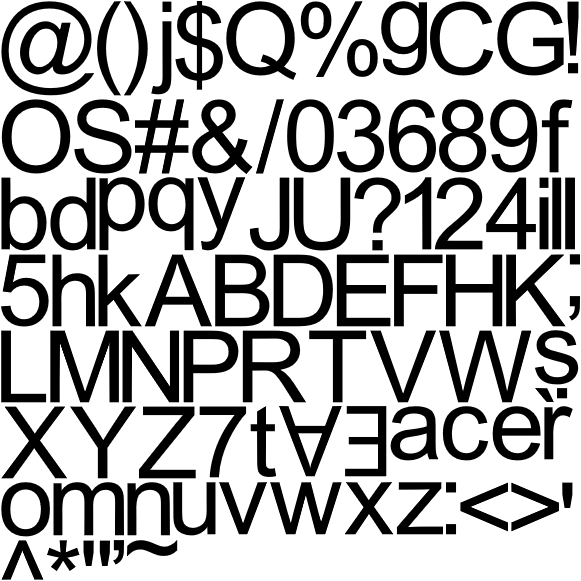
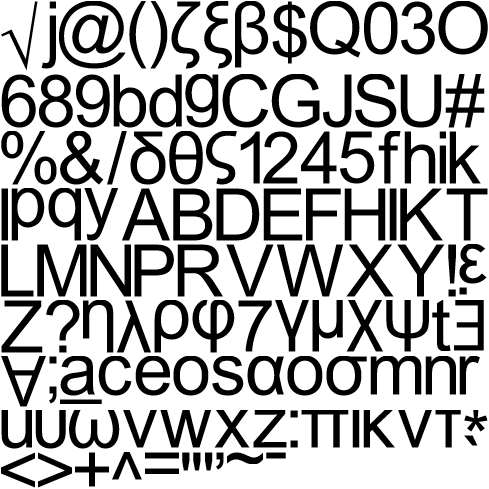
Added tab UI and buttons

diff --git a/PostulateVerifier/src/Model.cpp b/PostulateVerifier/src/Model.cpp
@@ -14,7 +14,7 @@ NEElement::NEElement(const std::vector<float>& identifiers, const Equation& def,
 {
 	if (checkValidity) {
 		if (identifiers.size() != identNum or !def.getSolution({identifiers}).sat) {
-			throw std::invalid_argument("Invalid point");
+			throw std::invalid_argument("Invalid element");
 		}
 	}
 
@@ -76,7 +76,7 @@ NELine Model::newLine(NEPoint p1, NEPoint p2) {
 	return { { 1.25, 0 }, p1.getModel() };
 }
 
-bool operator==(const NEElement lhs, const NEElement rhs) {
+bool operator==(const NEElement& lhs, const NEElement& rhs) {
 	if (lhs.getModel() != rhs.getModel()) {
 		//Later isomorphism
 		return false;
@@ -102,13 +102,13 @@ bool operator==(const NEElement lhs, const NEElement rhs) {
 	}
 }
 
-bool operator!=(const NEElement lhs, const NEElement rhs) { return !(lhs == rhs); }
+bool operator!=(const NEElement& lhs, const NEElement& rhs) { return !(lhs == rhs); }
 
 
-bool operator==(const RGBColour c1, const RGBColour c2) { return c1.r == c2.r && c1.g == c2.g && c1.b == c2.b && c1.a == c2.a; }
-bool operator!=(const RGBColour c1, const RGBColour c2) { return !(c1 == c2); }
+bool operator==(const RGBColour& c1, const RGBColour& c2) { return c1.r == c2.r && c1.g == c2.g && c1.b == c2.b && c1.a == c2.a; }
+bool operator!=(const RGBColour& c1, const RGBColour& c2) { return !(c1 == c2); }
 
-bool operator>>(const NEPoint p, const NELine l) {
+bool operator>>(const NEPoint& p, const NELine& l) {
 	if (p.getModel() != l.getModel()) {
 		//Later isomorphism
 		return false;
@@ -119,7 +119,7 @@ bool operator>>(const NEPoint p, const NELine l) {
 	return eq.isTrue({p.getIdentifiers(), l.getIdentifiers()});
 }
 
-bool isBetween(const NEPoint p1, const NEPoint p2, const NEPoint p3) {
+bool isBetween(const NEPoint& p1, const NEPoint& p2, const NEPoint& p3) {
 	if (p1.getModel() != p2.getModel() || p2.getModel() != p3.getModel()) {
 		//Later isomorphism
 		return false;

diff --git a/PostulateVerifier/src/Model.h b/PostulateVerifier/src/Model.h
@@ -33,6 +33,7 @@ protected:
 	std::shared_ptr<Model> m_Model;
 	NEElement(const std::vector<float>& identifiers, const Equation& def, const int identNum, NEType type, std::shared_ptr<Model> model, const RGBColour& colour, bool checkValidity);
 public:
+	virtual ~NEElement() {}
 	const std::vector<float>& getIdentifiers() const { return NEElement::m_Identifiers; }
 	const Equation& getDef() const { return NEElement::m_Def; }
 	std::shared_ptr<Model> getModel() const { return NEElement::m_Model; }
@@ -103,19 +104,19 @@ public:
 
 	NELine newLine(NEPoint p1, NEPoint p2);
 
-	friend bool operator==(const NEElement lhs, const NEElement rhs);
-	friend bool operator>>(const NEPoint p, const NELine l);
-	friend bool isBetween(const NEPoint p1, const NEPoint p2, const NEPoint p3);
+	friend bool operator==(const NEElement& lhs, const NEElement& rhs);
+	friend bool operator>>(const NEPoint& p, const NELine& l);
+	friend bool isBetween(const NEPoint& p1, const NEPoint& p2, const NEPoint& p3);
 	friend NEElement;
 	friend NEPoint;
 	friend NELine;
 };
 
-bool operator==(const NEElement lhs, const NEElement rhs);
-bool operator!=(const NEElement lhs, const NEElement rhs);
-bool operator==(const RGBColour c1, const RGBColour c2);
-bool operator!=(const RGBColour c1, const RGBColour c2);
+bool operator==(const NEElement& lhs, const NEElement& rhs);
+bool operator!=(const NEElement& lhs, const NEElement& rhs);
+bool operator==(const RGBColour& c1, const RGBColour& c2);
+bool operator!=(const RGBColour& c1, const RGBColour& c2);
 
 /// Incidence check: Checks if point p lies on line l. 
-bool operator>>(const NEPoint p, const NELine l);
-bool isBetween(const NEPoint p1, const NEPoint p2, const NEPoint p3);
+bool operator>>(const NEPoint& p, const NELine& l);
+bool isBetween(const NEPoint& p1, const NEPoint& p2, const NEPoint& p3);

diff --git a/NietEuclidischeGeogebra/src/UI/PermaButtonUI.cpp b/NietEuclidischeGeogebra/src/UI/PermaButtonUI.cpp
@@ -1,0 +1,41 @@
+#include "PermaButtonUI.h"
+
+#include "Renderer.h"
+#include "TabUI.h"
+
+PermaButtonUI::PermaButtonUI(float leftX, float rightX, float topY, float bottomY, int value, TabUI* parent)
+	: UIElement(leftX, rightX, topY, bottomY, "PermaButton"),
+	m_Background(std::make_shared<Square>(leftX, rightX, topY, bottomY, std::array<float, 4>{0.0f, 1.0f, 1.0f, 1.0f})),
+	m_Value(value),
+	m_Parent(parent)
+{
+}
+
+PermaButtonUI::~PermaButtonUI()
+{
+}
+
+void PermaButtonUI::SetActivation(bool value)
+{
+	m_IsActivated = value;
+	if (m_IsActivated)
+	{
+		m_Background->m_Colour = { 0.5f, 0.5f, 0.5f, 1.0f };
+	}
+	else
+	{
+		m_Background->m_Colour = { 0.0f, 1.0f, 1.0f, 1.0f };
+	}
+}
+
+void PermaButtonUI::RenderPass(Renderer* r)
+{
+	r->AddToRenderQueue(m_Background);
+	UIElement::RenderPass(r);
+}
+
+void PermaButtonUI::WasClicked(float x, float y)
+{
+	SetActivation(true);
+	m_Parent->ButtonClicked(m_Value);
+}

diff --git a/PostulateVerifier/src/Equation.cpp b/PostulateVerifier/src/Equation.cpp
@@ -47,7 +47,7 @@ std::map<std::string, float> Equation::linkVars(const std::vector<std::vector<fl
 	return m;
 }
 
-Equation::Equation(std::vector<std::string> varNames, std::string equationString) : m_VarNames{ varNames }, m_EquationString{ equationString }
+Equation::Equation(const std::vector<std::string>& varNames, const std::string& equationString) : m_VarNames{ varNames }, m_EquationString{ equationString }
 {
 	replaceAll(m_EquationString, " ", "");
 }
@@ -93,11 +93,11 @@ void Equation::replaceVarName(std::string& s, const std::string& from, const std
 	}
 }
 
-Equation operator+(const Equation e1, const Equation e2) {
+Equation operator+(const Equation& e1, const Equation& e2) {
 	return Equation{ e1, e2 };
 }
 
-Equation operator!(const Equation e) {
+Equation operator!(const Equation& e) {
 	return Equation{ e.m_VarNames, "!(" + e.m_EquationString + ")" };
 }
 

diff --git a/NietEuclidischeGeogebra/src/UI/TabUI.cpp b/NietEuclidischeGeogebra/src/UI/TabUI.cpp
@@ -1,0 +1,32 @@
+#include "TabUI.h"
+
+#include <typeinfo>
+
+TabUI::TabUI(float leftX, float rightX, float topY, float bottomY)
+	: UIElement(leftX, rightX, topY, bottomY, "TabUI")
+{
+	m_Buttons.push_back(std::make_shared<PermaButtonUI>(leftX + 0.1f, leftX + 0.3f, topY - 0.1f, topY - 0.2f, 0, this));
+	m_Buttons.push_back(std::make_shared<PermaButtonUI>(leftX + 0.35f, leftX + 0.5f, topY - 0.1f, topY - 0.2f, 1, this));
+
+	for (const std::shared_ptr<PermaButtonUI>& button : m_Buttons)
+		m_SubUIElements.push_back(button);
+}
+
+TabUI::~TabUI()
+{
+}
+
+void TabUI::RenderPass(Renderer* r)
+{
+	UIElement::RenderPass(r);
+}
+
+void TabUI::ButtonClicked(int value)
+{
+	for (int i{ 0 }; i < m_Buttons.size(); ++i)
+	{
+		if (i == value)
+			continue;
+		m_Buttons[i]->SetActivation(false);
+	}
+}

diff --git a/PostulateVerifier/src/Equation.h b/PostulateVerifier/src/Equation.h
@@ -33,7 +33,7 @@ public:
 	std::vector<std::string> m_VarNames;
 	std::string m_EquationString;
 	Equation(const Equation& e1, const Equation& e2);
-	Equation(std::vector<std::string> varNames, std::string equationString);
+	Equation(const std::vector<std::string>& varNames, const std::string& equationString);
 
 	/**
 	* Recursive function used to check if equation in string form is true. Input string must not contain spaces.
@@ -49,5 +49,5 @@ public:
 	std::string toShader(const std::vector<std::vector<float>>& identifiers) const;
 };
 
-Equation operator+(const Equation e1, const Equation e2);
-Equation operator!(const Equation e);
+Equation operator+(const Equation& e1, const Equation& e2);
+Equation operator!(const Equation& e);

diff --git a/NietEuclidischeGeogebra/src/UI/WindowUI.cpp b/NietEuclidischeGeogebra/src/UI/WindowUI.cpp
@@ -7,14 +7,16 @@
 #include "ButtonUI.h"
 #include "GraphUI.h"
 #include "MenuUI.h"
+#include "TabUI.h"
 
 WindowUI::WindowUI()
 {
 	//Dit is lager gezet, om ruimte te maken voor de menu bovenaan
-	m_UIElements.push_back(std::make_shared<EquationUI>(-1.0f, -0.5f, 0.9f, -1.0f));
+	//m_UIElements.push_back(std::make_shared<EquationUI>(-1.0f, -0.5f, 0.9f, -1.0f));
 	m_UIElements.push_back(std::make_shared<PostulateVerifierResultUI>(0.5f, 1.0f, 0.9f, -1.0f));
 	m_UIElements.push_back(std::make_shared<GraphUI>(-0.5f, 0.5f, 0.9f, -1.0f));
 	m_UIElements.push_back(std::make_shared<MenuUI>(-1.0f, 1.0f, 1.0f, 0.9f));
+	m_UIElements.push_back(std::make_shared<TabUI>(-1.0f, 0.0f, 0.8f, 0.0f));
 }
 
 WindowUI::~WindowUI()

diff --git a/NietEuclidischeGeogebra/src/Renderer.cpp b/NietEuclidischeGeogebra/src/Renderer.cpp
@@ -91,7 +91,7 @@ Renderer::Renderer()
 	m_LineRenderer = new LineRenderer;
 	m_SquareRenderer = new SquareRenderer;
 	m_GraphRenderer = new GraphRenderer;
-	m_TextRenderer = new TextRenderer("arialFont");
+	m_TextRenderer = new TextRenderer("defaultFont");
 }
 
 Renderer::~Renderer()
@@ -105,8 +105,8 @@ Renderer::~Renderer()
 
 void Renderer::RenderQueues()
 {
-	/*if (glIsEnabled(GL_BLEND) == GL_FALSE)
-		throw std::runtime_error("Waarschijnlijk heeft Jeroen blending weer uitgezet ofzo");*/
+	if (glIsEnabled(GL_BLEND) == GL_FALSE)
+		throw std::runtime_error("Waarschijnlijk heeft Jeroen blending weer uitgezet ofzo");
 
 	glClearColor(1.0f, 1.0f, 1.0f, 1.0f);
 	glClear(GL_COLOR_BUFFER_BIT);

diff --git a/NietEuclidischeGeogebra/src/UI/PermaButtonUI.h b/NietEuclidischeGeogebra/src/UI/PermaButtonUI.h
@@ -1,0 +1,25 @@
+#pragma once
+
+#include "UIElement.h"
+#include "SquareRenderer.h"
+
+class TabUI;
+
+class PermaButtonUI : public UIElement
+{
+public:
+	PermaButtonUI(float leftX, float rightX, float topY, float bottomY, int value, TabUI* parent);
+	~PermaButtonUI();
+
+	void SetActivation(bool value);
+	virtual void RenderPass(Renderer* r);
+
+protected:
+	virtual void WasClicked(float x, float y) override;
+
+private:
+	std::shared_ptr<Square> m_Background;
+	bool m_IsActivated{false};
+	int m_Value;
+	TabUI* m_Parent;
+};

diff --git a/NietEuclidischeGeogebra/src/Application.cpp b/NietEuclidischeGeogebra/src/Application.cpp
@@ -49,7 +49,7 @@ Application::Application()
 {
 	Application::s_Instance = this;
 	AssetsFolder = "../../../../NietEuclidischeGeogebra/assets";
-	m_Window = new Window(WindowCreationOptions(1080, 720, "Hello World", MouseClickCallback, TextCallback, MouseMovedCallback, KeyCallback));
+	m_Window = new Window(WindowCreationOptions(1080, 720, "Jeroen moet niet zo vervelend doen", MouseClickCallback, TextCallback, MouseMovedCallback, KeyCallback));
 	m_Renderer = new Renderer;
 	m_WindowUI = new WindowUI;
 }

diff --git a/NietEuclidischeGeogebra/src/UI/TabUI.h b/NietEuclidischeGeogebra/src/UI/TabUI.h
@@ -1,0 +1,17 @@
+#pragma once
+
+#include "UIElement.h"
+#include "PermaButtonUI.h"
+
+class TabUI : public UIElement
+{
+public:
+	TabUI(float leftX, float rightX, float topY, float bottomY);
+	~TabUI();
+
+	virtual void RenderPass(Renderer* r) override;
+	void ButtonClicked(int value);
+
+private:
+	std::vector<std::shared_ptr<PermaButtonUI>> m_Buttons;
+};

diff --git a/NietEuclidischeGeogebra/src/UI/TextInputField.cpp b/NietEuclidischeGeogebra/src/UI/TextInputField.cpp
@@ -226,7 +226,7 @@ void TextInputField::UpdateEditingIndex(int newIndex, bool isRemoved)
 				lastCharacterAddition = ((float)info.width) / width * m_Text->GetScale();
 				++m_Text->m_RenderEnd;
 			}
-			--m_Text->m_RenderEnd;
+			//--m_Text->m_RenderEnd;
 		}
 	}
 }
